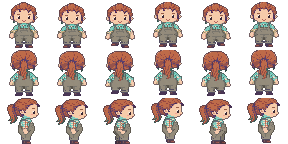
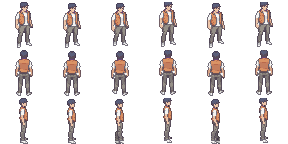
주인공 새 그림: 사용자 AI 그림 A 돌아온 젊은이 (6~7등신, 키 46px) + 장비 새 몸에 맞춤
import_ai_character.py --tall (작은 머리 부위 높이) · --dark-pants, make_wear_sheets 모자를 머리 폭에 맞춰 줄이고 주인공 BIB/HAT_DY 뺌.

Claude-Session: https://claude.ai/code/session_01LsQKjzeBiFjASEP5DMDXkY

diff --git a/tools/import_ai_character.py b/tools/import_ai_character.py
@@ -17,6 +17,12 @@
 실행: python3 tools/import_ai_character.py 그림.png --name player [--width 30] [--height 46] [--patch tools/char_parts/player_patch.json]
       그림 순서가 정면 · 옆 · 뒤면 --order down,side,up
       --preview 파일.png 를 주면 4배 확대 미리보기도 저장한다.
+      6~7등신 실제 비율 그림 (2026-10-04 그림 방향 "섞어서") 은 --tall, 검은 바지면 --dark-pants.
+
+주인공 (2026-10-04, 사용자 AI 그림 A 돌아온 젊은이: /mnt/project-files/design/protagonist/ai/ai_a.png)
+  python3 tools/import_ai_character.py ai_a.png --name protagonist --height 46 --width 18 --tall --hair-span 0.2 --front-hair 0.2
+  python3 tools/make_wear_sheets.py   (장비를 새 몸에 맞춤. 모자는 머리 폭에 맞춰 줄어든다)
+  B 개척단 단원 (ai_b.png) 은 같은 옵션 + --dark-pants
 """
 import argparse
 import colorsys
@@ -96,6 +102,15 @@ PROBES = {
 }
 # 부위가 나올 수 있는 높이 (0 머리끝 ~ 1 발끝)
 SPAN = {"hair": (0, 0.5), "skin": (0, 1), "top": (0.3, 0.85), "pants": (0.55, 1), "shoes": (0.85, 1)}
+# --tall: 6~7등신 실제 비율 그림 (2026-10-04 그림 방향 "섞어서", 주인공 돌아온 젊은이). 머리가 작아 부위 높이가 다르다
+TALL_PROBES = {
+    "hair": [(0.3, 0.7, 0.01, 0.05)],
+    "skin": [(0.42, 0.62, 0.13, 0.17)],
+    "top": [(0.25, 0.75, 0.22, 0.42)],
+    "pants": [(0.25, 0.45, 0.6, 0.75), (0.55, 0.75, 0.6, 0.75)],
+    "shoes": [(0.1, 0.9, 0.95, 1.0)],
+}
+TALL_SPAN = {"hair": (0, 0.2), "skin": (0, 1), "top": (0.14, 0.56), "pants": (0.48, 0.95), "shoes": (0.9, 1)}
 
 
 def part_refs(front):
@@ -109,7 +124,7 @@ def part_refs(front):
             for y in range(int(y0 * h), max(int(y0 * h) + 1, int(y1 * h))):
                 for x in range(int(x0 * w), max(int(x0 * w) + 1, int(x1 * w))):
                     p = px[x, min(y, h - 1)]
-                    if p[3] and (part in ("hair", "shoes") or lum(p) >= 60):
+                    if p[3] and (part in DARK_PARTS or lum(p) >= 60):
                         c[p[:3]] += 1
         count[part] = c
     refs = {}
@@ -128,13 +143,15 @@ def classify(c, yf, refs):
             d = sum((a - b) ** 2 for a, b in zip(c, r))
             if d < bd:
                 best, bd = part, d
-    if lum(c) < 60 and (best not in ("hair", "shoes") or (best == "hair" and yf > DARK_HAIR_MAX)):
+    if lum(c) < 60 and (best not in DARK_PARTS or (best == "hair" and yf > DARK_HAIR_MAX)):
         return None
     return best
 
 
 # 이 높이 아래의 어두운 선은 머리카락으로 치지 않는다 (체크무늬 셔츠 선이 머리카락이 되지 않게). --dark-hair
 DARK_HAIR_MAX = 1.0
+# 어두워도 선이 아니라 그 부위로 치는 곳. --dark-pants 면 검은 바지도 (개척단 단원)
+DARK_PARTS = ["hair", "shoes"]
 
 
 def soften(c, lift, sat):
@@ -466,11 +483,19 @@ def main():
     ap.add_argument("--front-hair", type=float, default=0.5, help="정면에서 머리카락이 내려올 수 있는 높이 (포니테일은 앞에서 안 보여 0.4 쯤)")
     ap.add_argument("--dark-hair", type=float, default=1.0, help="이 높이 아래 어두운 선은 머리카락이 아니다 (체크무늬 셔츠면 0.42 쯤)")
     ap.add_argument("--sleeves", action="store_true", help="윗도리 색을 소매(팔 윗쪽)에서도 뽑는다. 멜빵바지처럼 가슴을 다른 옷이 덮을 때")
+    ap.add_argument("--tall", action="store_true", help="6~7등신 실제 비율 그림 (부위 높이를 작은 머리에 맞춤). --hair-span 은 0.2 쯤")
+    ap.add_argument("--dark-pants", action="store_true", help="검은 바지: 어두운 색도 바지로 친다")
     ap.add_argument("--order", default="down,up,side", help="그림 속 왼쪽부터 순서 (정면 down · 뒷모습 up · 옆 side). 예: down,side,up")
     a = ap.parse_args()
 
     global DARK_HAIR_MAX
     DARK_HAIR_MAX = a.dark_hair
+    if a.dark_pants:
+        DARK_PARTS.append("pants")
+    if a.tall:
+        PROBES.clear()
+        PROBES.update(TALL_PROBES)
+        SPAN.update(TALL_SPAN)
     if a.sleeves:
         PROBES["top"] = PROBES["top"] + [(0.08, 0.22, 0.44, 0.54), (0.78, 0.92, 0.44, 0.54)]
     figs = split_figures(white_to_alpha(Image.open(a.src)))

diff --git a/tools/make_wear_sheets.py b/tools/make_wear_sheets.py
@@ -315,9 +315,9 @@ PART = {"hair": (40, 40, 40), "skin": (250, 200, 160), "top": (160, 160, 160), "
         "shoes": (120, 60, 20), "detail": (255, 255, 255)}  # import_ai_character.PART_COLORS 와 같음
 OLD_HEAD_X0, OLD_HEAD_X1, OLD_HEAD_TOP = 11, 36, 1
 # 멜빵바지처럼 바지가 가슴까지 올라오는 몸: 이 줄(칸 y)까지의 바지 픽셀도 옷(조끼 · 망토)이 덮는다
-BIB = {"hunter": 33, "protagonist": 33}
+BIB = {"hunter": 33}
 # 모자를 머리카락 위에서 몇 줄 옮길지 (사냥꾼은 정수리 올림머리 때문에 모자가 눈을 가려 2줄 올린다)
-HAT_DY = {"hunter": -2, "protagonist": -2}
+HAT_DY = {"hunter": -2}
 CUR_BODY = [None]
 
 
@@ -419,8 +419,11 @@ def fit_hat(draw_hat):
         hx0, hy0, hx1, _ = bbox(pp["hair"])
         band = [x for x, y in pp["hair"] if y == hy0 + 4]
         cx = (min(band) + max(band)) / 2 if band else (hx0 + hx1) / 2
-        ox = round(cx - (OLD_HEAD_X1 - OLD_HEAD_X0) / 2)
-        c = Warp(Canvas(img, col * CELL, row * CELL), ox, hy0 + 2 + HAT_DY.get(CUR_BODY[0], 0), 1.0, 1.0)
+        # 머리 크기에 맞춰 줄인다 (2026-10-04 6~7등신 주인공: 머리 폭 약 9px, 옛 머리 25px)
+        old_w = OLD_HEAD_X1 - OLD_HEAD_X0
+        k = min(1.0, (max(band) - min(band) + 2) / old_w) if band else 1.0
+        ox = cx - old_w * k / 2
+        c = Warp(Canvas(img, col * CELL, row * CELL), ox, hy0 + round((2 + HAT_DY.get(CUR_BODY[0], 0)) * k), k, k)
         draw_hat(c, row, 0)
     return fn
 

diff --git a/tools/make_protagonist_placeholder.py b/tools/make_protagonist_placeholder.py
@@ -1,4 +1,4 @@
-"""주인공 임시 그림 (2026-10-03 주인공 하나).
+"""주인공 임시 그림 (2026-10-03 주인공 하나). 2026-10-04 사용자 AI 그림이 들어와 더는 쓰지 않는다 (옛 그림을 되살릴 때만).
 
 사용자 AI 그림 (/mnt/project-files/design/protagonist/prompt.md) 이 올 때까지 사냥꾼 몸을 빌려 쓰되,
 마을 사람 사냥꾼 NPC 와 헷갈리지 않게 옷 색만 바꾼다: 빨간 체크 셔츠 → 청록 셔츠, 멜빵 청바지 → 황토 바지.
